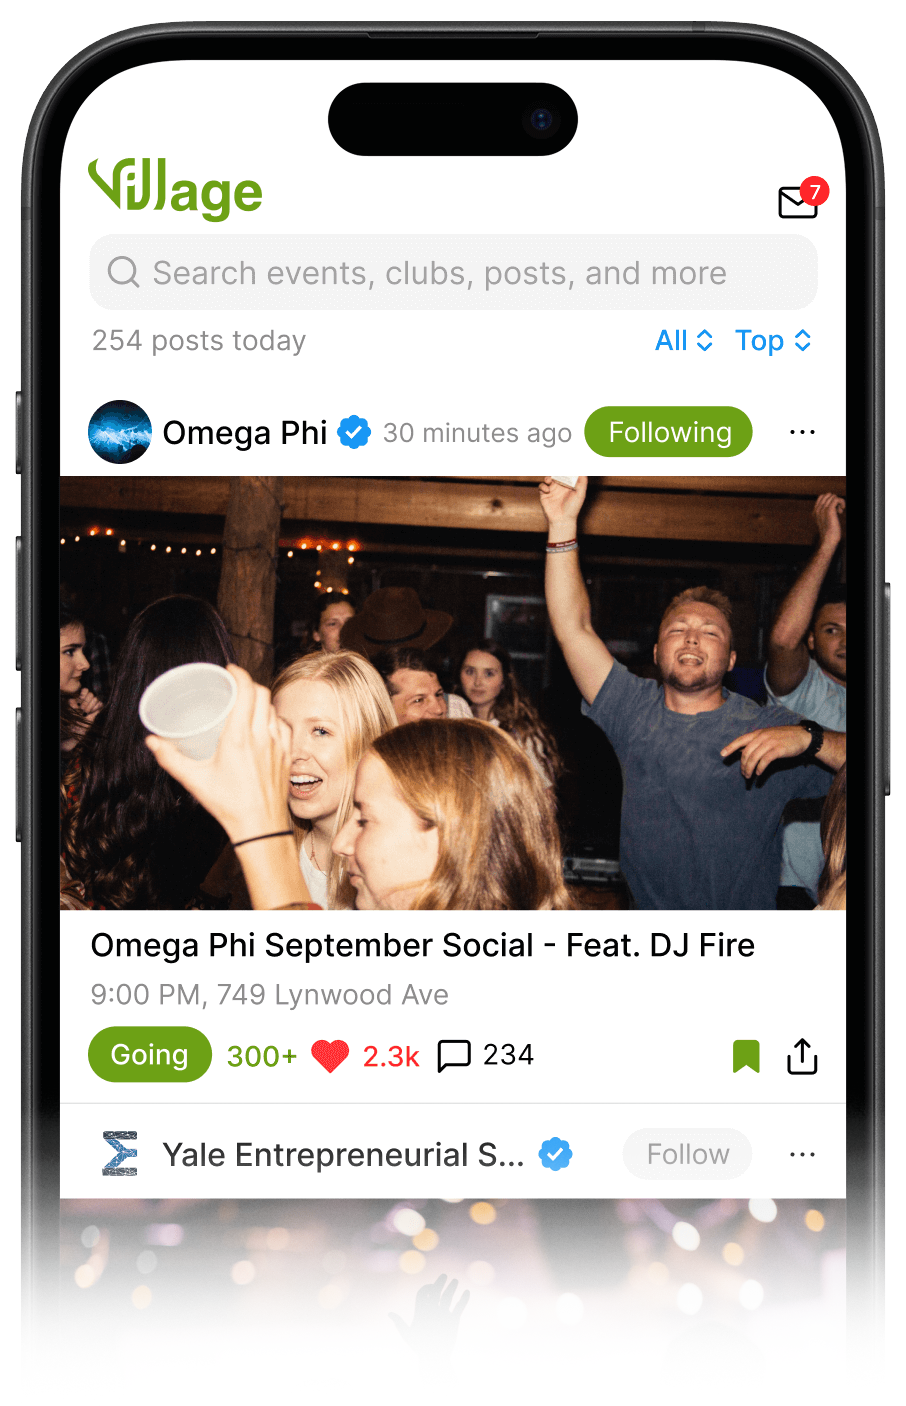
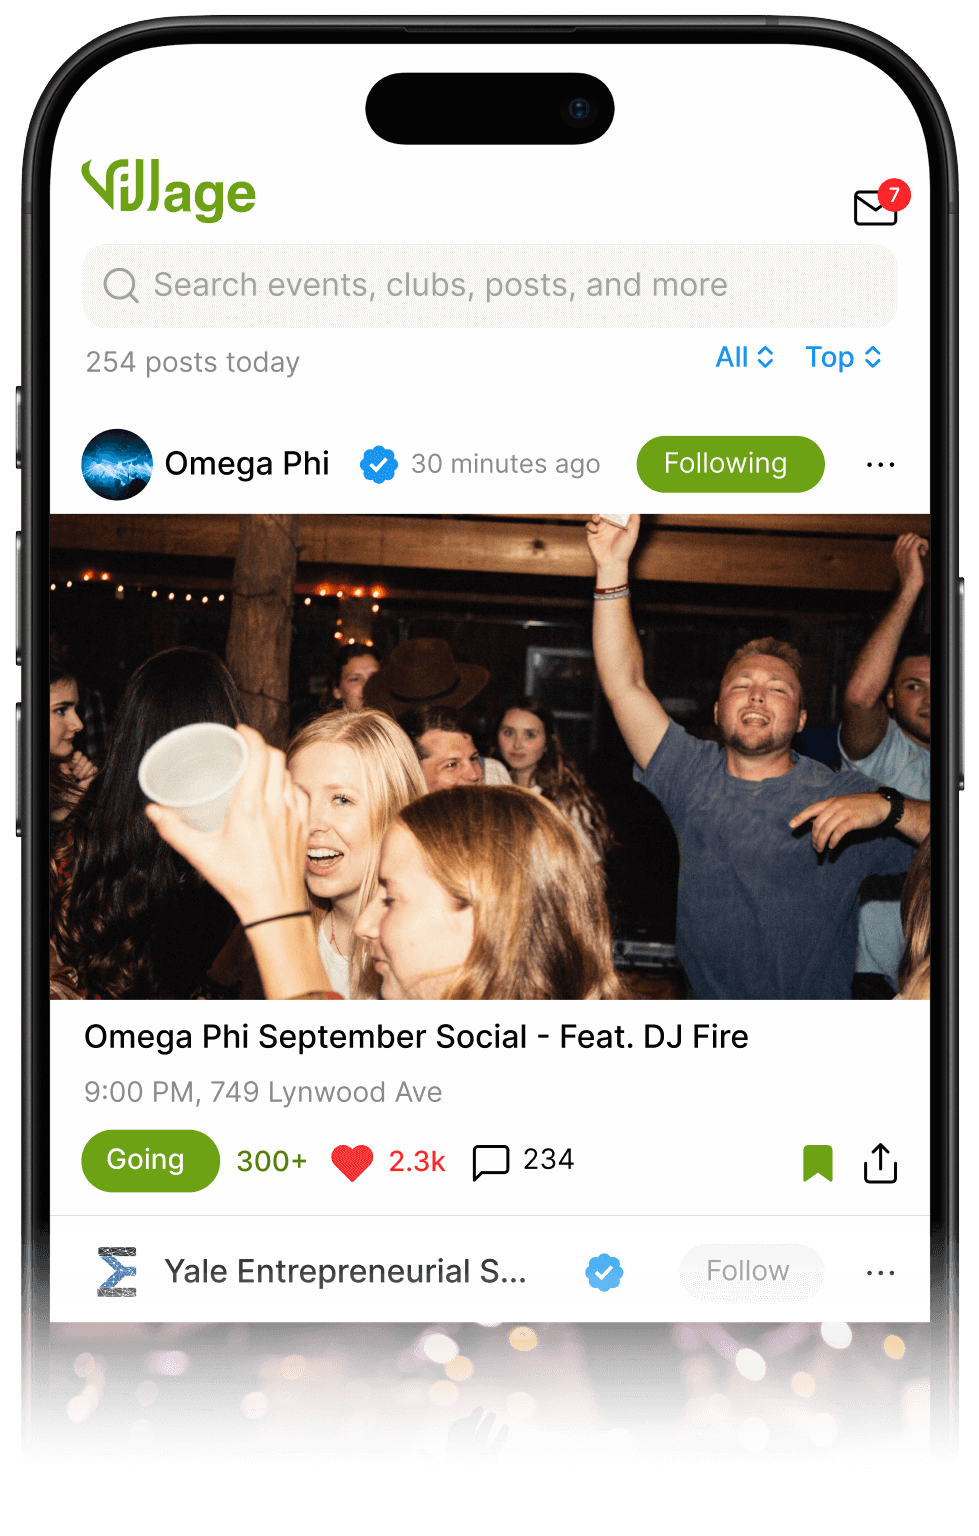
mockup updated

Changed region(s): [[0.0, 0.0, 0.989, 0.9175]]

diff --git a/src/components/Hero.tsx b/src/components/Hero.tsx
@@ -6,14 +6,14 @@ const Hero = () => {
     <div className="pt-1 sm:pt-5 md:pt-5 lg:pt-5 xl:pt-5 flex flex-col justify-items-center justify-around m-auto">
       <Image
         className="flex w-60 sm:w-[300px] md:w-[300px] lg:w-[300px] xl:w-[300px]  flex-1 hover:scale-102 transition duration-400 m-auto animate-fade-in-up animation-delay-200"
-        src="/VillageHomeFadeV2.png"
+        src="/VillageHomeFade.png"
         alt="Village Main Page"
         height={1000}
         width={300}
       />
       <div className="flex flex-1 m-auto text-center flex-col animate-fade-in-up animation-delay-400">
         <div className="flex flex-col gap-10">
-          <div className="pt-6.75 sm:pt-10.75 md:pt-10.75 lg:pt-10.75 xl:pt-10.75 text-4xl sm:text-5xl md:text-5xl lg:text-5xl xl:text-5xl text-black max-w-300 font-bold animate-fade-in-up animation-delay-600">
+          <div className="pt-0 sm:pt-6 md:pt-6 lg:pt-6 xl:pt-6 text-4xl sm:text-5xl md:text-5xl lg:text-5xl xl:text-5xl text-black max-w-300 font-bold animate-fade-in-up animation-delay-600">
             Find community. Build your brand. Get paid.
           </div>
         </div>

diff --git a/src/components/Button.tsx b/src/components/Button.tsx
@@ -16,7 +16,7 @@ const Button = ({ href, children, className = "" }: ButtonProps) => {
     px-10 sm:px-16 md:px-16 lg:px-16 xl:px-16 
     py-3 sm:py-6.5 md:py-6.5 lg:py-6.5 xl:py-6.5
     text-lg sm:text-2xl md:text-2xl lg:text-2xl xl:text-2xl
-    font-semibold text-white
+    font-medium text-white
     bg-black
     rounded-full
     shadow-sm
